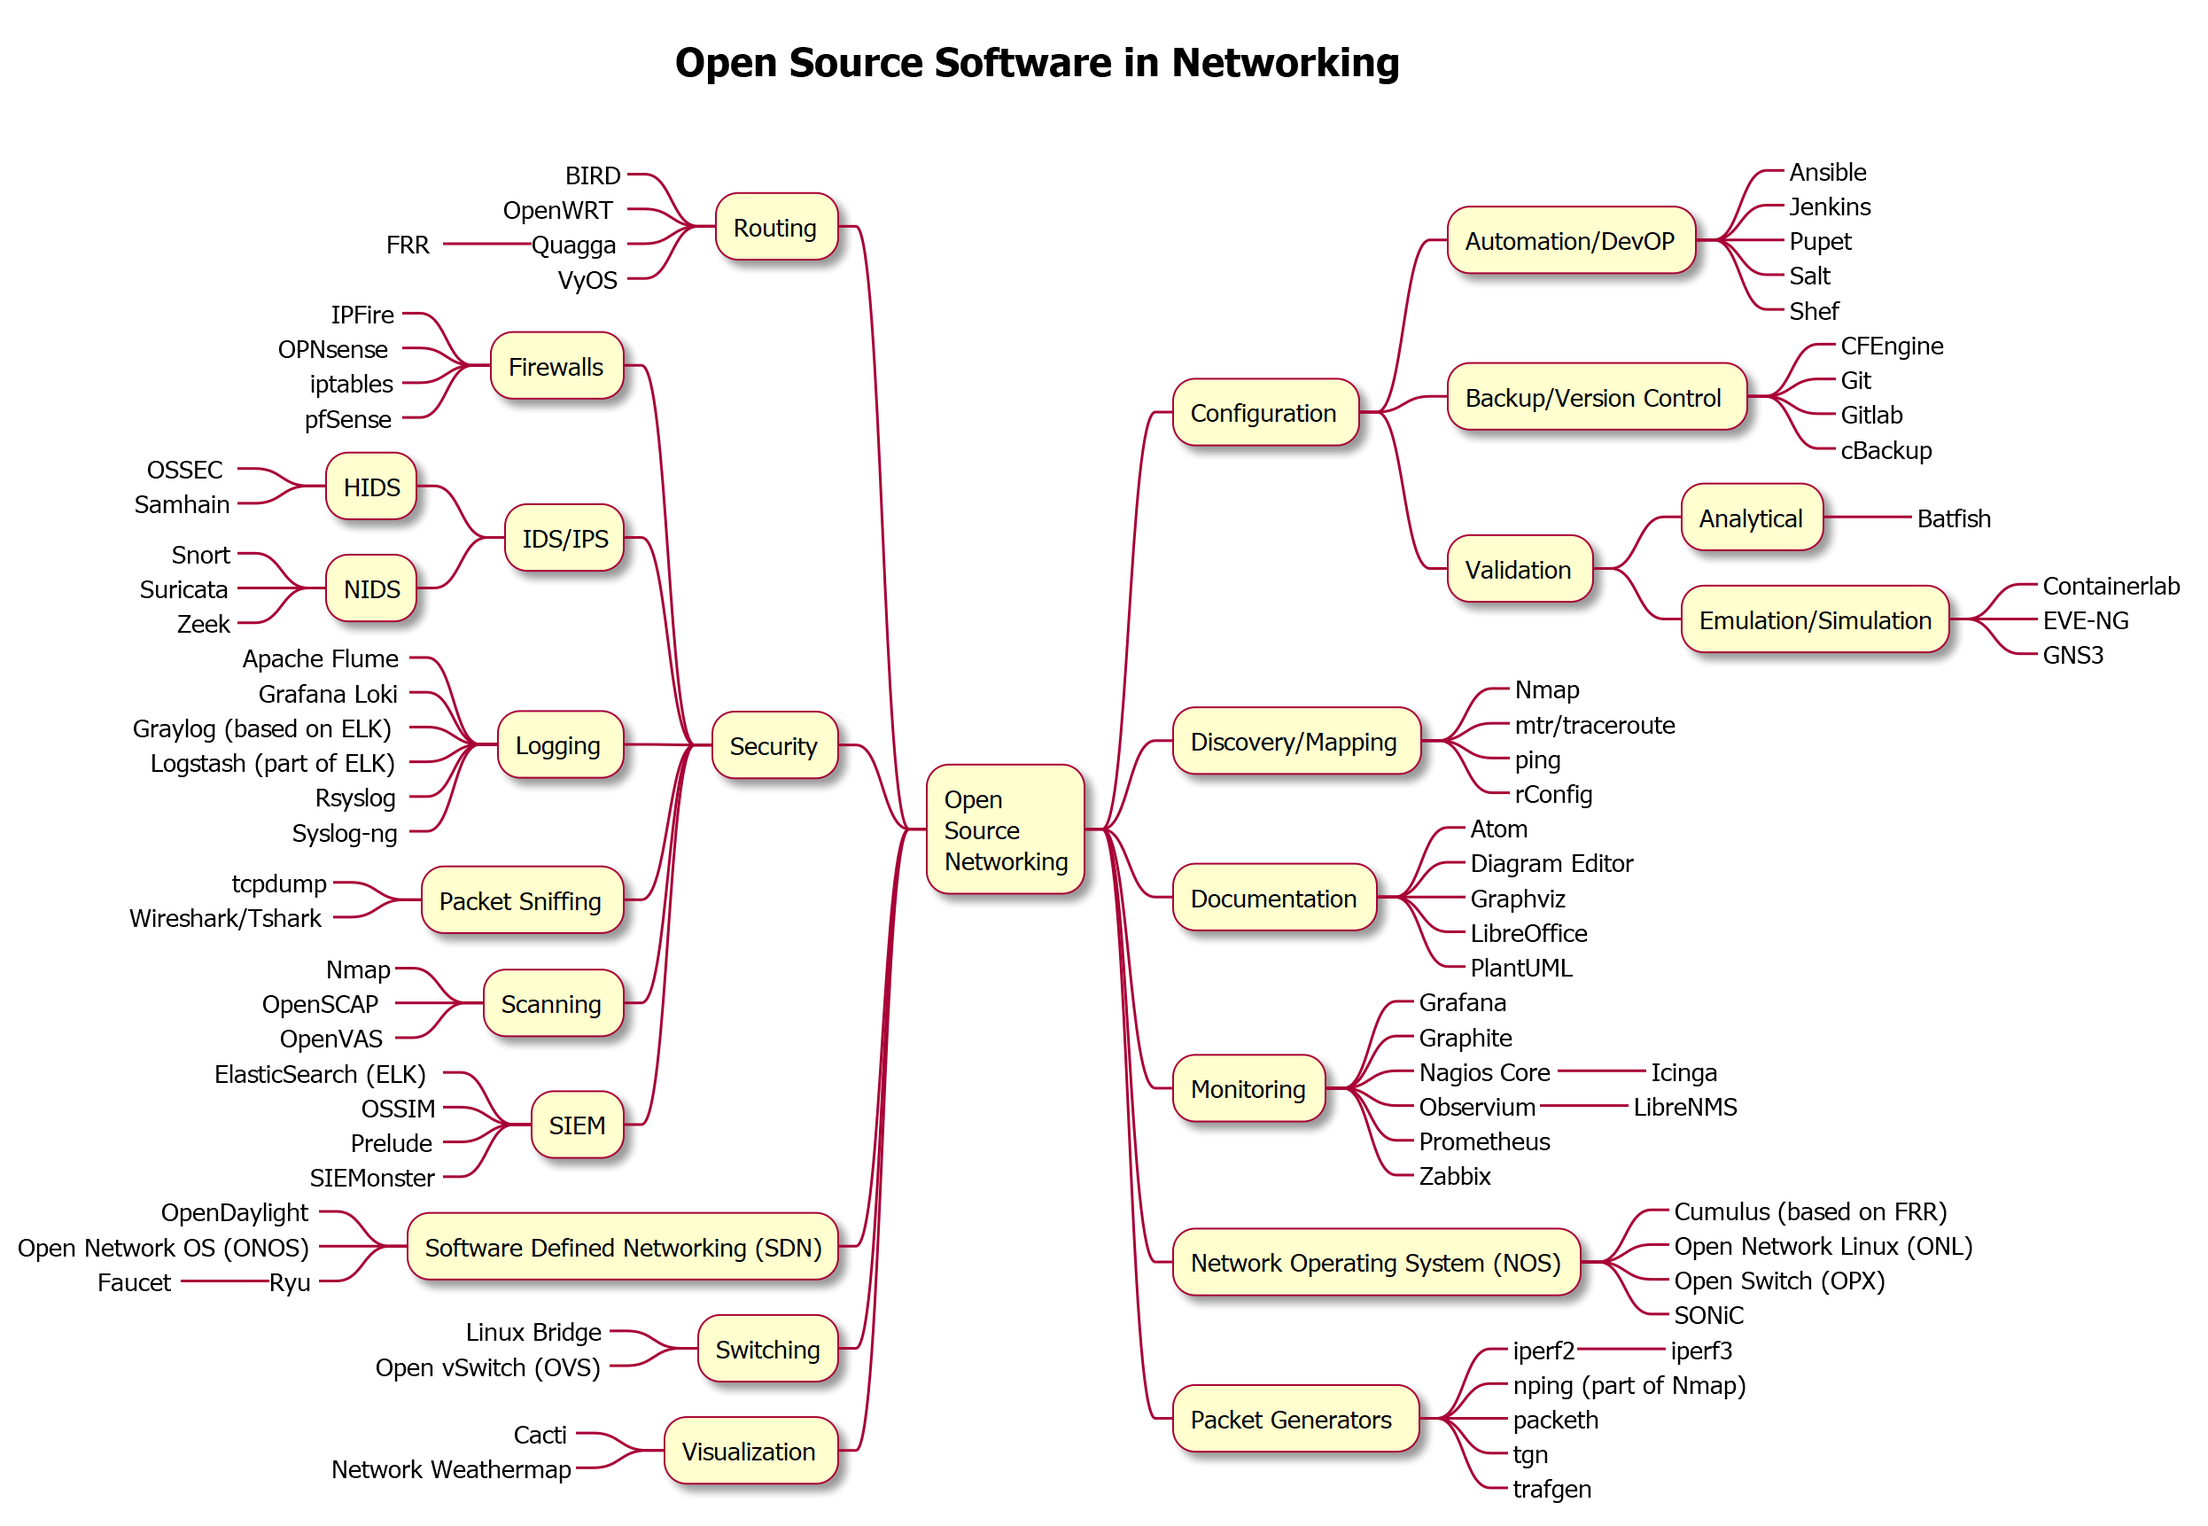
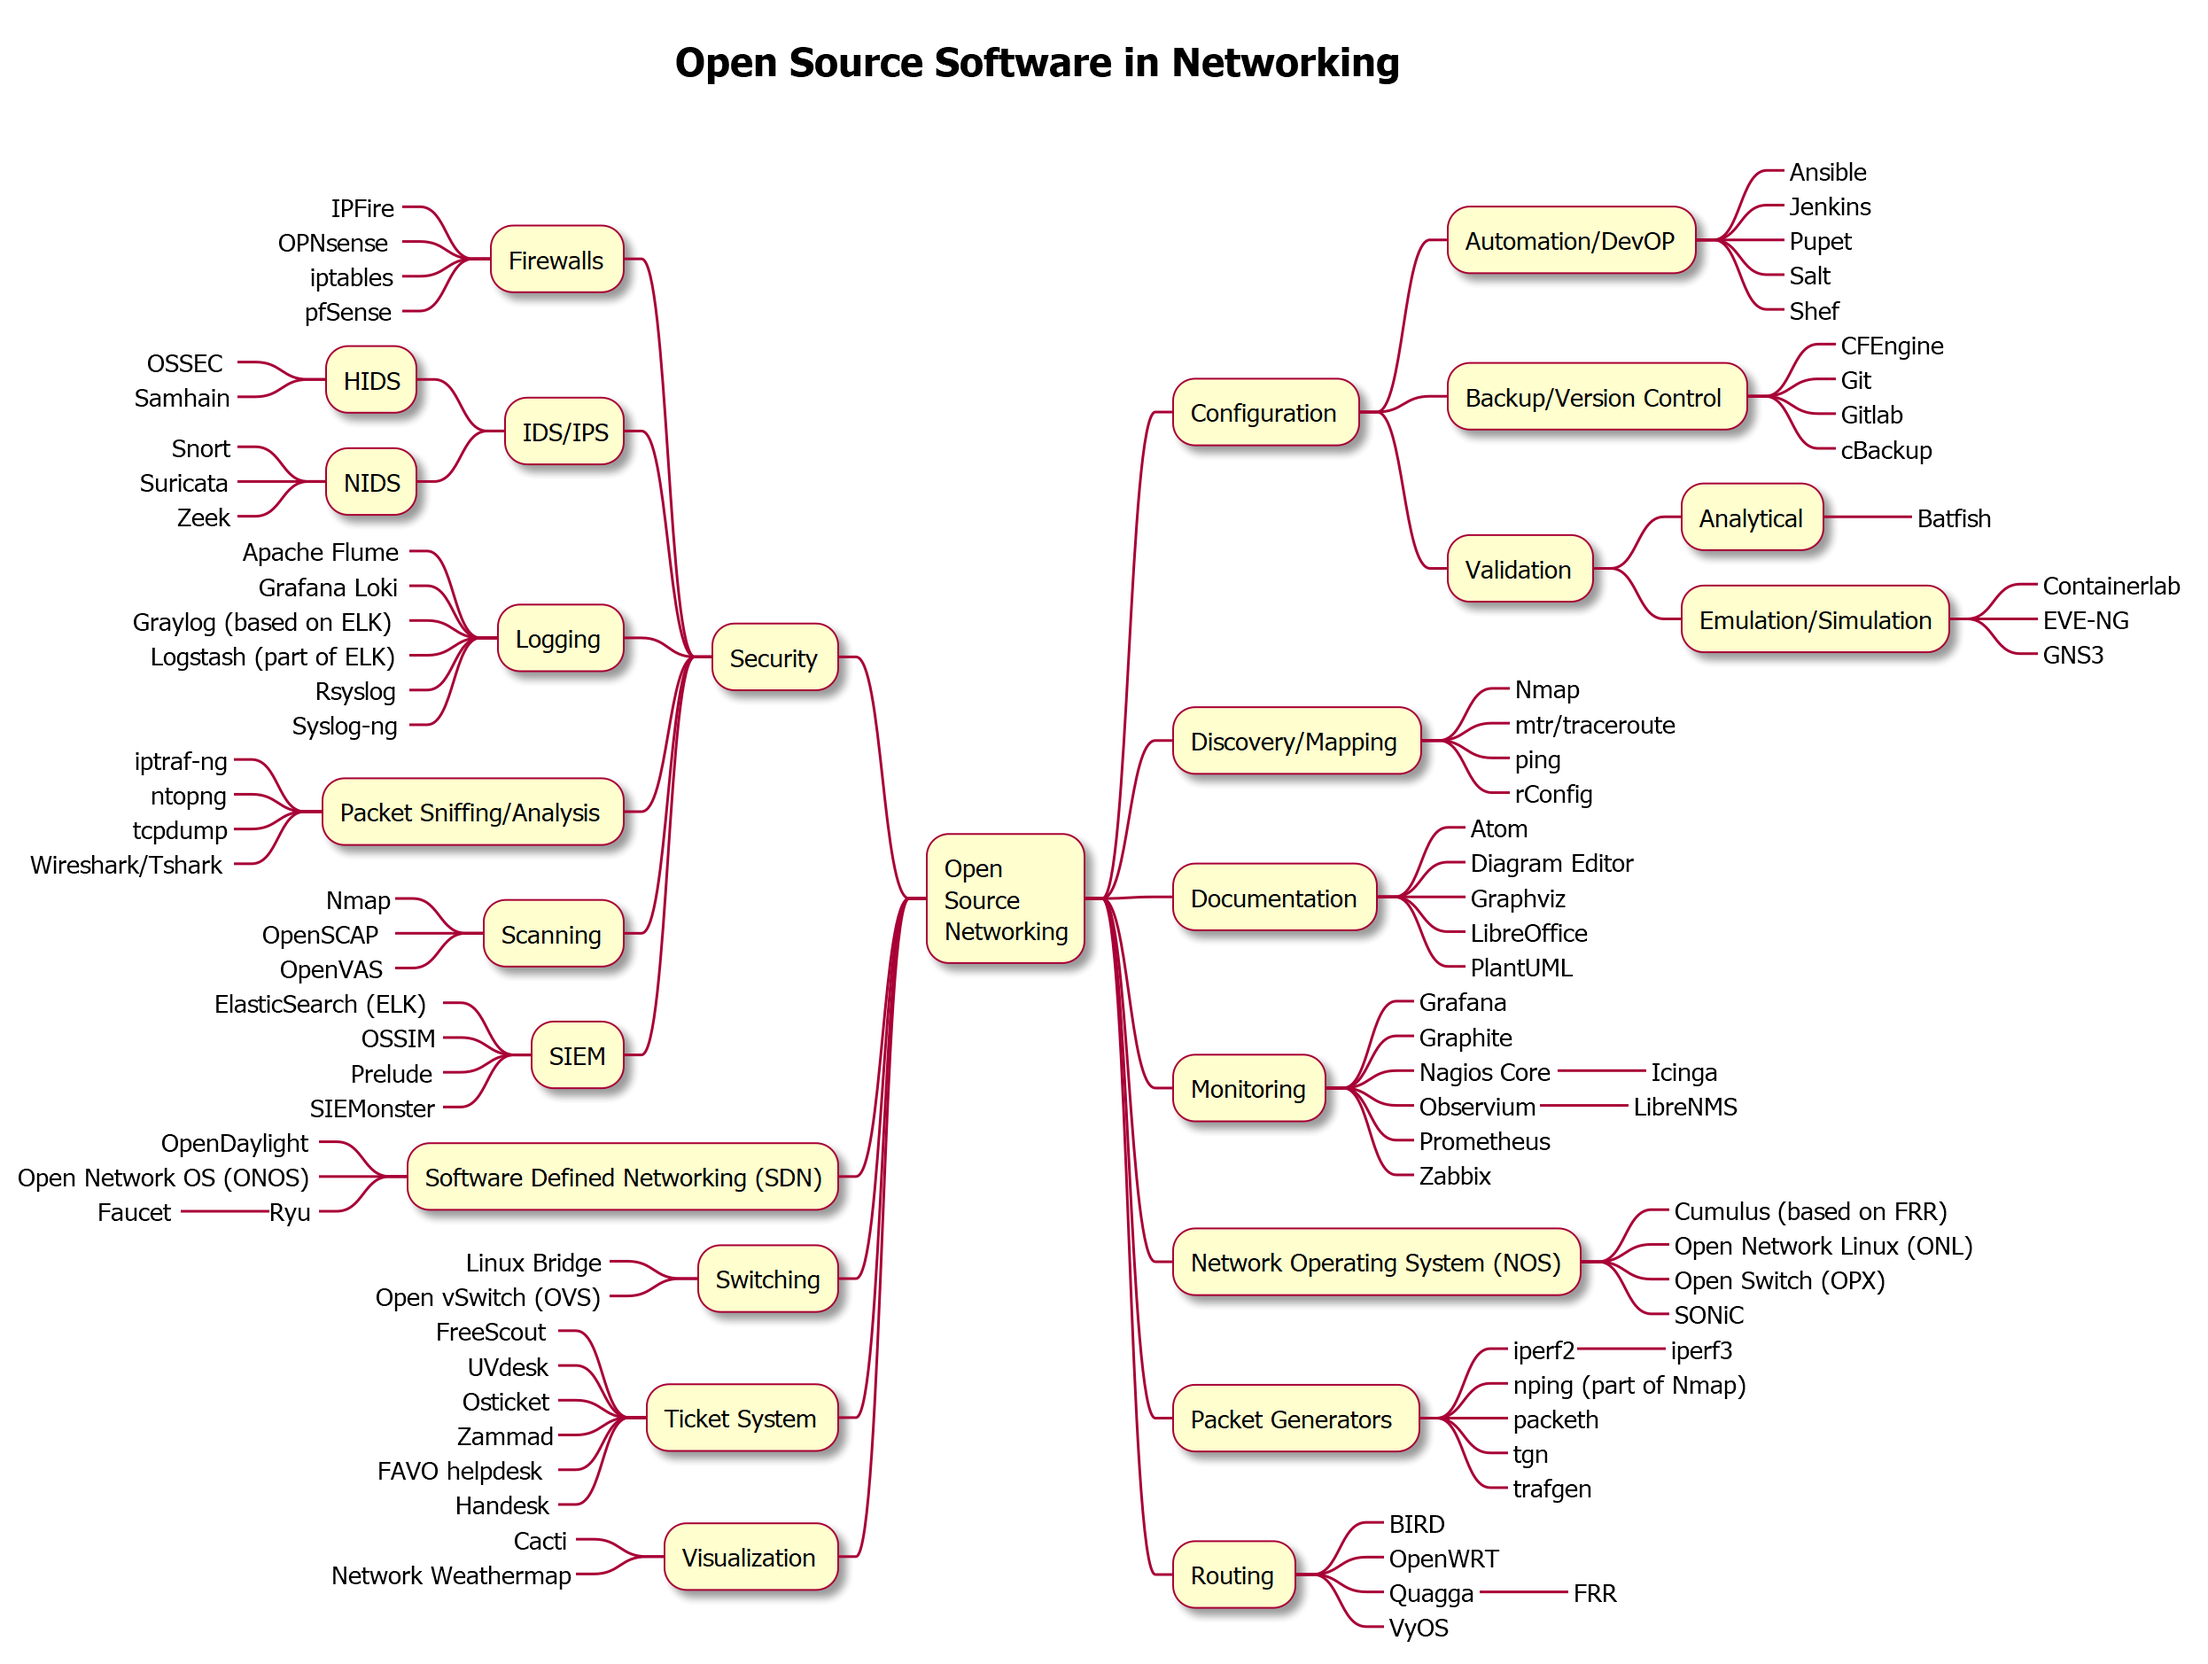
add new category and update

Changed region(s): [[0.0, 0.0923, 0.9888, 0.9849], [0.309, 0.0308, 0.6489, 0.0616]]

diff --git a/OpenSourceMindMap.md b/OpenSourceMindMap.md
@@ -86,14 +86,15 @@ LineThickness 1
 ***_ trafgen
 
 
-left side
-
 ** Routing
 ***_ BIRD
 ***_ OpenWRT
 ***_ Quagga
 ****_ FRR
 ***_ VyOS
+
+
+left side
 
 ** Security
 
@@ -120,7 +121,9 @@ left side
 ****_ Rsyslog
 ****_ Syslog-ng
 
-*** Packet Sniffing
+*** Packet Sniffing/Analysis
+****_ iptraf-ng
+****_ ntopng
 ****_ tcpdump
 ****_ Wireshark/Tshark
 
@@ -146,6 +149,14 @@ left side
 ** Switching
 ***_ Linux Bridge
 ***_ Open vSwitch (OVS)
+
+** Ticket System
+***_ FreeScout
+***_ UVdesk
+***_ Osticket
+***_ Zammad
+***_ FAVO helpdesk
+***_ Handesk
 
 
 ** Visualization

diff --git a/README.md b/README.md
@@ -5,6 +5,7 @@
 The map is created using [Atom](https://atom.io) with [Markdown Preview Enhanced](https://shd101wyy.github.io/markdown-preview-enhanced/#/), [PlantUML](https://plantuml.com/), and [Pandoc](https://pandoc.org).
 
 ![Open Source Software in Networking](assets/netopensource.png)
+
 ## License
 
 Shield: [![CC BY-NC-SA 4.0][cc-by-nc-sa-shield]][cc-by-nc-sa]
